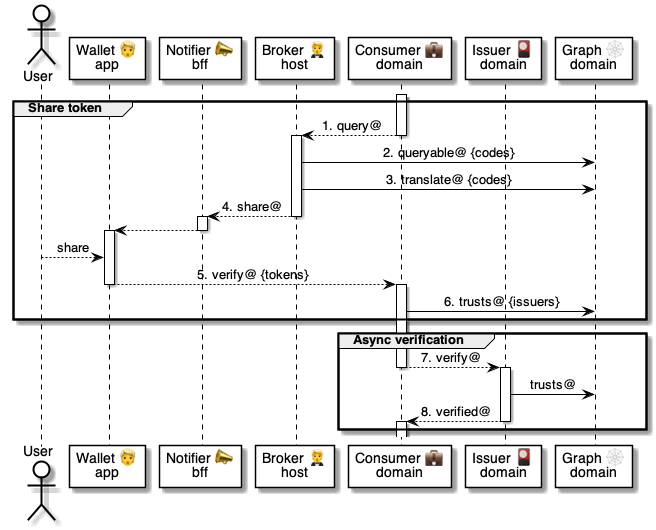
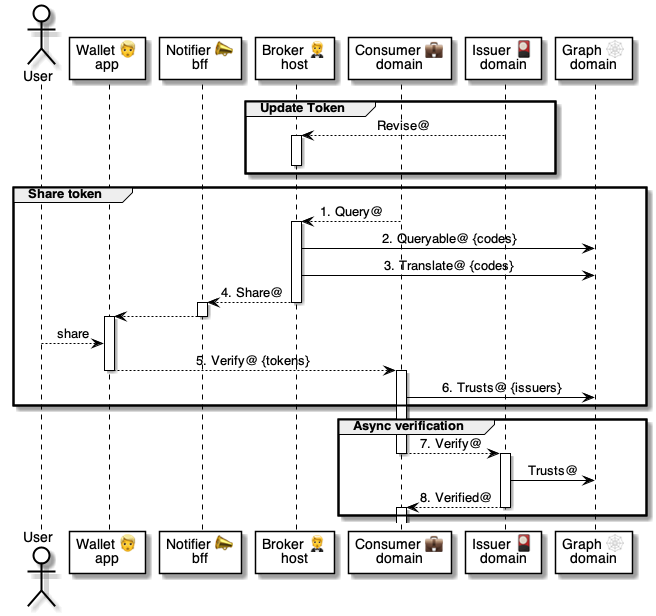
.

Changed region(s): [[0.0, 0.4226, 1.0, 0.9962], [0.0, 0.0, 1.0, 0.5434], [0.5793, 0.5132, 0.6098, 0.5434]]

diff --git a/4 ⚙ Solution/20 🧑🦰 UI/24 🗄 Vaults/02 🧩 Schema Code.md b/4 ⚙ Solution/20 🧑🦰 UI/24 🗄 Vaults/02 🧩 Schema Code.md
@@ -1,20 +1,68 @@
 🧩 Schema Codes FAQ
 ===
 
+1. **What is a Schema Code?**
 
-1. **How do domains validate the structure of messages?**
+    A [Schema Code 🧩](<02 🧩 Schema Code.md>) is a string 
+    * formatted as `{authority}/{code}[:{version}]`
+    * e.g., `nlweb.org/QR:1.0`
+    * that points to a public data schema
+    * describing the structure of a sharable dataset.
 
-    In NLWeb, information is shared based on [Schema Codes 🧩](<02 🧩 Schema Code.md>). 
+    ---
+    <br/>
+
+1. **What are examples for Schema Codes?**
+
+    | Schema Code | Purpose |
+    |-|-
+    | `unicode.any-igo.org/FLAG 🧩` | Flags for country [Prompts 🤔](<../23 💬 Chats/02 🤔 Prompt.md>).
+
+    ---
+    <br/>
+
+2. **What is contained in a Schema Code?**
+
+    The string of a [Schema Code 🧩](<02 🧩 Schema Code.md>) is composed of the following parts.
+
+    | Part | Type | Description
+    |-|-|-
+    | `domain` | string | The [domain 👥](<../../40 👥 Domains/44 📜 Manifests/00 👥 Domain.md>) that published the [Schema Code 🧩](<02 🧩 Schema Code.md>) in their [domain Manifest 📜](<../../40 👥 Domains/44 📜 Manifests/01 📜 Domain Manifest.md>).
+    | `code`    | string | A unique ID of the schema in the domain.
+    | `version` | string | The optional version of the schema:<br/> - when missing, consider version 1.0; <br/> 
     
-    * When a [Consumer 💼 domain](<../27 💼 Consumers/04 💼🎭 Consumer role.md>) needs information stored in a [Vault 🗄 domain](<03 🗄🎭 Vault role.md>), it states the [Schema Code 🧩](<02 🧩 Schema Code.md>) of the information in the form of `{domain}/{code}:{version}`;
+
+    - e.g., the code `nlweb.com/TOKEN:2.0` references version `2.0` of a schema called `TOKEN` that is defined in the [domain Manifest 📜](<../../40 👥 Domains/44 📜 Manifests/01 📜 Domain Manifest.md>) of the [Authority 🏛 domain](<../../40 👥 Domains/43 👍 Trusts/02 🏛🛠 Authority helper.md>) `nlweb.com`. 
+    
+    ---
+    <br/>
+
+2. **How do domains validate the structure of messages?**
+
+    In NLWeb, information is shared based on [Schema Codes 🧩](<02 🧩 Schema Code.md>).
+ 
+    
+    * When a [Consumer 💼 domain](<../27 💼 Consumers/04 💼🎭 Consumer role.md>) needs information stored in user's [Vault 🗄 domain](<03 🗄🎭 Vault role.md>), it states the [Schema Code 🧩](<02 🧩 Schema Code.md>) of the information;
+  
         - this allows the chat participants to know where to get the schema definition for the [Messages 📨](<../../40 👥 Domains/41 📨 Comms/01 📨 Domain Message.md>) 
+  
         - e.g., the code `nlweb.com/TOKEN:2.0` references version `2.0` of a schema called `TOKEN` that is defined in the [domain Manifest 📜](<../../40 👥 Domains/44 📜 Manifests/01 📜 Domain Manifest.md>) of the [Authority 🏛 domain](<../../40 👥 Domains/43 👍 Trusts/02 🏛🛠 Authority helper.md>) `nlweb.com`. 
     
-    * For resilience and performance, domains can query [Graph 🕸 domains](<../../40 👥 Domains/44 📜 Manifests/03 🕸🛠 Graph helper.md>) directly for a schema definition by passing a [Schema Code 🧩](<02 🧩 Schema Code.md>).
+    * For resilience and performance, domains query [Graph 🕸 domains](<../../40 👥 Domains/44 📜 Manifests/03 🕸🛠 Graph helper.md>) for a schema definition by passing the [Schema Code 🧩](<02 🧩 Schema Code.md>) to [👥🚀🕸 Schema @ Graph](<../../../6 🅰 APIs/45 🕸🅰 Graph/08 👥🚀🕸 Schema.md>).
+
+        ```yaml
+        # Sample request
+        Header: 
+            From: any-domain.com
+            To: any-graph.com
+            Subject: Schema@Graph
+        Body:
+            Code: nlweb.org/QR:1.0
+        ```
 
     ---
 
-2. **What does it mean when a YAML content starts with 🤝?**
+3. **What does it mean when a YAML content starts with 🤝?**
 
     When YAML starts with `🤝: {domain}/[{path}/]{code}[:{version}]`,
     * e.g., `🤝: nlweb.org/MANIFEST/CODE`
@@ -23,7 +71,7 @@
     
     ---
 
-3. **How do define a Schema in a Manifest?**
+4. **How do define a Schema in a Manifest?**
 
     The instructions on how to add a [Schema Code 🧩](<02 🧩 Schema Code.md>) to a [domain Manifest 📜](<../../40 👥 Domains/44 📜 Manifests/01 📜 Domain Manifest.md>) are themselves published as special [Schema Codes 🧩](<02 🧩 Schema Code.md>):
 
@@ -37,7 +85,7 @@
     ---
     <br/>
 
-4. **Are there any pre-defined Schema Codes?**
+5. **Are there any pre-defined Schema Codes?**
 
     Yes. 
     - The NLWeb protocol is supported by a set of [Schema Codes 🧩](<02 🧩 Schema Code.md>) defined in the `nlweb.org` [domain Manifest 📜](<../../40 👥 Domains/44 📜 Manifests/01 📜 Domain Manifest.md>). 
@@ -50,7 +98,7 @@
 
     ---
 
-5. **Is the NLWeb manifest a single point of failure?**
+6. **Is the NLWeb manifest a single point of failure?**
 
     No. 
     - Domains don't need `nlweb.org` to be online to access its [domain Manifest 📜](<../../40 👥 Domains/44 📜 Manifests/01 📜 Domain Manifest.md>) (nor the Manifest of any other domain, for that matter).

diff --git a/4 ⚙ Solution/20 🧑🦰 UI/22 🔆 Locators/01 🔆 Locator.md b/4 ⚙ Solution/20 🧑🦰 UI/22 🔆 Locators/01 🔆 Locator.md
@@ -5,14 +5,29 @@
 
     In NLWeb, non-humans (e.g., organizations, places, objects, animals) are represented by a [Locator 🔆](<01 🔆 Locator.md>). 
     * An NLWeb [Locator 🔆](<01 🔆 Locator.md>) is a string contained in a [QR code ✨](<03 🧑🦰✨ Wallet QR scan.md>), [NFC tag 🔆](<04 🧑🦰🔆 Wallet NFC tap.md>), [Web link 🌐](<02 🧑🦰🌐 Wallet URLs.md>), or [Chat 💬](<../23 💬 Chats/01 💬 Chat.md>) option.
-    * Example: `nlweb.org/QR,1,any-printer.com,7V8KD3G`
     * Users can [tap 🔆](<04 🧑🦰🔆 Wallet NFC tap.md>), [scan ✨](<03 🧑🦰✨ Wallet QR scan.md>), [select 💬](<../23 💬 Chats/01 💬 Chat.md>), or [click 🌐](<02 🧑🦰🌐 Wallet URLs.md>) Locators 🔆 to open a [Chat 💬](<../23 💬 Chats/01 💬 Chat.md>) with the [Locator's Host 🤗 domain](<../23 💬 Chats/04 🤗🎭 Host role.md>).
 
     ---
     <br/>
     
 
-2. **How can users interact with Locators?**
+3. **What data is contained in a Locator?**
+
+    A [Locator 🔆](<01 🔆 Locator.md>) is a string 
+    * formatted as `{schema code},{host domain},{resource}[,{parameters}]`
+    * e.g.: `nlweb.org/QR:1.2,any-printer.com,7V8KD3G`
+
+    |Part| Example | Purpose
+    |-|-|-
+    | [Schema Code 🧩](<../24 🗄 Vaults/02 🧩 Schema Code.md>) | `nlweb.org/QR:1.0` | To validate the schema with a [Graph 🕸 helper domain](<../../40 👥 Domains/44 📜 Manifests/03 🕸🛠 Graph helper.md>).
+    | [Host 🤗 domain](<../23 💬 Chats/04 🤗🎭 Host role.md>) | `any-host.com` | For the user's [Wallet 🧑🦰 app](<../01 🧑🦰 Wallets/01 🧑🦰 Wallet app.md>) to open a [Chat 💬](<../23 💬 Chats/01 💬 Chat.md>).
+    | Resource | `product-1234` | The resource key in the Host's domain |  `product-1234` |
+    | Parameters | `A=1,B=2` | any optional data fields.
+
+    ---
+    <br/>
+
+4. **How can users interact with Locators?**
 
     ![](<.📎 Assets/🔆 Locators.png>)
     
@@ -37,18 +52,6 @@
     <br/>
 
 
-3. **What data is contained in a Locator?**
-
-    A [Locator 🔆](<01 🔆 Locator.md>) contains.
-    |Part| Example | Purpose
-    |-|-|-
-    | [Schema Code 🧩](<../24 🗄 Vaults/02 🧩 Schema Code.md>) | `nlweb.org/QR:1.0` | To validate the schema with a [Graph 🕸 helper domain](<../../40 👥 Domains/44 📜 Manifests/03 🕸🛠 Graph helper.md>).
-    | [Host 🤗 domain](<../23 💬 Chats/04 🤗🎭 Host role.md>) | `any-host.com` | For the user's [Wallet 🧑🦰 app](<../01 🧑🦰 Wallets/01 🧑🦰 Wallet app.md>) to open a [Chat 💬](<../23 💬 Chats/01 💬 Chat.md>).
-    | Resource | `product-1234` | The resource key in the Host's domain |  `product-1234` |
-    | Parameters | `A=1,B=2` | any optional data fields.
-
-    ---
-    <br/>
 
 2. **Can Locators be forged?**
 

diff --git a/5 ⏩ Flows/04 💼⏩ Consumers/03 💼⏩🧑🦰 Query token.md b/5 ⏩ Flows/04 💼⏩ Consumers/03 💼⏩🧑🦰 Query token.md
@@ -9,11 +9,14 @@
 
 ![alt text](<.📎 Assets/⚙ Query Token.png>)
 
-1. [💼🐌🤵 Query @ Broker](<../../6 🅰 APIs/15 🤵🅰 Broker/60 🤵🅰 Share/61 💼🐌🤵 Query.md>)
-2. [👥🚀🕸 Queryable @ Graph](<../../6 🅰 APIs/45 🕸🅰 Graph/05 👥🚀🕸 Queryable.md>)
-3. [👥🚀🕸 Translate @ Graph](<../../6 🅰 APIs/45 🕸🅰 Graph/06 👥🚀🕸 Translate.md>)
-4. [🤵🐌📣 Share @ Notifier](<../../6 🅰 APIs/65 📣🅰 Notifier/02 📣💬🅰 Chats/22 🤵🐌📣 Share.md>)
-5. [🤵🐌💼 Verify @ Consumer](<../../6 🅰 APIs/30 💼🅰 Consumer/02 🧑🦰🐌💼 Verify.md>)
-6. [👥🚀🕸 Trusts @ Graph](<../../6 🅰 APIs/45 🕸🅰 Graph/03 👥🚀🕸 Trusts.md>)
-7. [💼🐌🎴 Verify @ Issuer](<../../6 🅰 APIs/55 🎴🅰 Issuer/02 💼🐌🎴 Verify.md>)
-8. [🎴🐌💼 Verified @ Consumer](<../../6 🅰 APIs/30 💼🅰 Consumer/03 🎴🐌💼 Verified.md>)
+|#| Step | Purpose
+|-|-|-
+|1| [💼🐌🤵 Query @ Broker](<../../6 🅰 APIs/15 🤵🅰 Broker/60 🤵🅰 Share/61 💼🐌🤵 Query.md>) | In a Chat, a consumer asks access to user data of one or mode Schema Codes.
+|2| [👥🚀🕸 Queryable @ Graph](<../../6 🅰 APIs/45 🕸🅰 Graph/05 👥🚀🕸 Queryable.md>) | The Broker matches possible user Vaults with the Schema Codes, and asks a Graph to filters out the ones without usable Trust paths.
+|3| [👥🚀🕸 Translate @ Graph](<../../6 🅰 APIs/45 🕸🅰 Graph/06 👥🚀🕸 Translate.md>) | The Broker asks a Graph to translate the Schema Codes to the Chat's language.
+|4| [🤵🐌📣 Share @ Notifier](<../../6 🅰 APIs/65 📣🅰 Notifier/02 📣💬🅰 Chats/22 🤵🐌📣 Share.md>) | The Broker sends the share request to the user via the Notifier domain, who then delivers it to the Wallet app.
+|5| [🤵🐌💼 Verify @ Consumer](<../../6 🅰 APIs/30 💼🅰 Consumer/02 🧑🦰🐌💼 Verify.md>)
+|6| [👥🚀🕸 Trusts @ Graph](<../../6 🅰 APIs/45 🕸🅰 Graph/03 👥🚀🕸 Trusts.md>)
+|7| [💼🐌🎴 Verify @ Issuer](<../../6 🅰 APIs/55 🎴🅰 Issuer/02 💼🐌🎴 Verify.md>)
+|8| [🎴🐌💼 Verified @ Consumer](<../../6 🅰 APIs/30 💼🅰 Consumer/03 🎴🐌💼 Verified.md>)
+|

diff --git a/4 ⚙ Solution/20 🧑🦰 UI/03 🤵 Brokers/03 🤵 Broker domain.md b/4 ⚙ Solution/20 🧑🦰 UI/03 🤵 Brokers/03 🤵 Broker domain.md
@@ -96,7 +96,7 @@
     |🔗 Binds| [🧑🦰🚀 Binds](<../../../6 🅰 APIs/15 🤵🅰 Broker/40 🤵🅰 Binds 🔗/41 🧑🦰🚀🤵 Binds.md>) | List the [Binds 🔗](<../../../4 ⚙ Solution/20 🧑🦰 UI/24 🗄 Vaults/01 🔗 Bind.md>) of a [Wallet 🧑🦰 app](<../../../4 ⚙ Solution/20 🧑🦰 UI/01 🧑🦰 Wallets/01 🧑🦰 Wallet app.md>)
     || [🗄🐌 Bindable](<../../../6 🅰 APIs/15 🤵🅰 Broker/40 🤵🅰 Binds 🔗/42 🗄🐌🤵 Bindable.md>) | Offers of bindable [Schema Codes 🧩](<../../../4 ⚙ Solution/20 🧑🦰 UI/24 🗄 Vaults/02 🧩 Schema Code.md>)
     | 🎴 Tokens | [🎴🐌 Offer](<../../../6 🅰 APIs/15 🤵🅰 Broker/50 🤵🅰 Tokens 🎫/51 🎴🐌🤵 Offer.md>) | An [Issuer 🎴 domain](<../../../4 ⚙ Solution/20 🧑🦰 UI/25 🎫 Tokens/02 🎴🎭 Issuer role.md>) issues a [Token 🎫](<../../../4 ⚙ Solution/20 🧑🦰 UI/25 🎫 Tokens/01 🎫 Token.md>)
-    || [🎴🐌🤵 Revoke](<../../../6 🅰 APIs/15 🤵🅰 Broker/50 🤵🅰 Tokens 🎫/52 🎴🐌🤵 Revoke.md>)
+    || [🎴🐌🤵 Revoke](<../../../6 🅰 APIs/15 🤵🅰 Broker/50 🤵🅰 Tokens 🎫/52 🎴🐌🤵 Revise.md>)
 
     || [🧑🦰🐌🤵 Accepted](<../../../6 🅰 APIs/15 🤵🅰 Broker/50 🤵🅰 Tokens 🎫/53 🧑🦰🐌🤵 Accepted.md>)
     || [🧑🦰🚀🤵 Tokens](<../../../6 🅰 APIs/15 🤵🅰 Broker/50 🤵🅰 Tokens 🎫/54 🧑🦰🚀🤵 Tokens.md>)

diff --git a/6 🅰 APIs/45 🕸🅰 Graph/03 👥🚀🕸 Trusts.md b/6 🅰 APIs/45 🕸🅰 Graph/03 👥🚀🕸 Trusts.md
@@ -1,4 +1,3 @@
-<!-- #TODO -->
 
 <!-- Docs: https://quip.com/hgz4A3clvOes#temp:C:bDA71b470c7a4c446e5b43adea7e -->
 <!-- Code: https://github.com/jorgemjfonseca/domain-trust-framework/blob/9a3c5abe16dda8cbacd2529bc859fd9d708f85d9/python/backbone/graph/GRAPH.py#L279 -->
@@ -7,9 +6,13 @@
 
 > Verifies if there’s a path of [Trust 👍](<../../4 ⚙ Solution/40 👥 Domains/43 👍 Trusts/01 👍 Domain Trust.md>) between two [domains 👥](<../../4 ⚙ Solution/40 👥 Domains/44 📜 Manifests/00 👥 Domain.md>) regarding a [Schema Code 🧩](<../../4 ⚙ Solution/20 🧑🦰 UI/24 🗄 Vaults/02 🧩 Schema Code.md>).
 
+
+> Used in [💼⏩🧑🦰 Query token](<../../5 ⏩ Flows/04 💼⏩ Consumers/03 💼⏩🧑🦰 Query token.md>)
+
 > Similar as [Trusted@Graph](<02 👥🚀🕸 Trusted.md>), but for verification by another [domain 👥](<../../4 ⚙ Solution/40 👥 Domains/44 📜 Manifests/00 👥 Domain.md>).
 
 > ⚠ This method doesn’t look at the header nor the signature of the request.
+
 
 <br/>
 

diff --git a/4 ⚙ Solution/40 👥 Domains/44 📜 Manifests/03 🕸🛠 Graph helper.md b/4 ⚙ Solution/40 👥 Domains/44 📜 Manifests/03 🕸🛠 Graph helper.md
@@ -98,3 +98,17 @@
 
     ---
     <br/>
+
+
+1. **What API methods are exposed by Graphs?**
+
+    |Method|Description
+    |-|-
+    |[👥🚀🕸 Trusted](<../../../6 🅰 APIs/45 🕸🅰 Graph/02 👥🚀🕸 Trusted.md>)
+    |[👥🚀🕸 Trusts](<../../../6 🅰 APIs/45 🕸🅰 Graph/03 👥🚀🕸 Trusts.md>)
+    |[👥🚀🕸 Identity](<../../../6 🅰 APIs/45 🕸🅰 Graph/04 👥🚀🕸 Identity.md>)
+    |[👥🚀🕸 Queryable](<../../../6 🅰 APIs/45 🕸🅰 Graph/05 👥🚀🕸 Queryable.md>)
+    |[👥🚀🕸 Translate](<../../../6 🅰 APIs/45 🕸🅰 Graph/06 👥🚀🕸 Translate.md>)
+    |[👥🚀🕸 Public Key](<../../../6 🅰 APIs/45 🕸🅰 Graph/07 👥🚀🕸 Public Key.md>)
+    |[👥🚀🕸 Schema](<../../../6 🅰 APIs/45 🕸🅰 Graph/08 👥🚀🕸 Schema.md>)
+    |[👥🚀🕸 Service](<../../../6 🅰 APIs/45 🕸🅰 Graph/09 👥🚀🕸 Service.md>)

diff --git a/6 🅰 APIs/15 🤵🅰 Broker/50 🤵🅰 Tokens 🎫/52 🎴🐌🤵 Revise.md b/6 🅰 APIs/15 🤵🅰 Broker/50 🤵🅰 Tokens 🎫/52 🎴🐌🤵 Revise.md
@@ -20,6 +20,10 @@ Header:
 Body:
     ChatID: <session-uuid>
     TokenID: <token-uuid>
+    Action: SUSPEND
+    Starting: 2025-10-10T13:45:00.000Z
+    Ending: 2025-12-31T00:00:00.000Z
+    Locator: <reference-uuid>
 ```
 
 |Object|Property|Type|Description
@@ -29,4 +33,8 @@ Body:
 | |`Subject`|string|`Revoke@Broker`
 |Body|`ChatID`|string|[Chat 💬](<../../../4 ⚙ Solution/20 🧑🦰 UI/23 💬 Chats/01 💬 Chat.md>) ID
 | |`TokenID`|string|[Token 🎫](<../../../4 ⚙ Solution/20 🧑🦰 UI/25 🎫 Tokens/01 🎫 Token.md>) ID
+| |`Action`| enum | `REVOKE` `SUSPEND` `ACTIVATE` `UPDATE`
+| |`Starting`| timestamp | Start date and time
+| |`Ending` | timestamp | Finish date and time (optional)
+| |`Locator`| string | Locator to allow the user to start a Chat with a host about it.
 |

diff --git a/6 🅰 APIs/45 🕸🅰 Graph/08 👥🚀🕸 Schema.md b/6 🅰 APIs/45 🕸🅰 Graph/08 👥🚀🕸 Schema.md
@@ -20,8 +20,7 @@ Header:
     Subject: Schema@Graph
 
 Body:
-    Code: iata.org/SSR/WCHR
-    Version: 2.1
+    Code: iata.org/SSR/WCHR:2.1
 ```
 
 |Object|Property|Type|Description
@@ -30,7 +29,6 @@ Body:
 |       | `To`      | string | [Graph 🕸 domain](<../../4 ⚙ Solution/40 👥 Domains/44 📜 Manifests/03 🕸🛠 Graph helper.md>) name
 |       | `Subject` | string | `Schema@Graph`
 | Body  | `Code`    | string | [Schema Code 🧩](<../../4 ⚙ Solution/20 🧑🦰 UI/24 🗄 Vaults/02 🧩 Schema Code.md>)
-|       | `Version` | string | Schema version, of the latest if empty.
 |
 
 

diff --git a/6 🅰 APIs/45 🕸🅰 Graph/02 👥🚀🕸 Trusted.md b/6 🅰 APIs/45 🕸🅰 Graph/02 👥🚀🕸 Trusted.md
@@ -1,4 +1,3 @@
-<!-- #TODO -->
 
 <!-- Docs: https://quip.com/hgz4A3clvOes#temp:C:bDA0807933d618043e6b1873dc74 -->
 <!-- Code: https://github.com/jorgemjfonseca/domain-trust-framework/blob/9a3c5abe16dda8cbacd2529bc859fd9d708f85d9/python/backbone/graph/GRAPH.py#L255 -->

diff --git a/6 🅰 APIs/15 🤵🅰 Broker/30 🤵🅰 Chats 💬/01 🧑🦰🐌🤵 Assess.md b/6 🅰 APIs/15 🤵🅰 Broker/30 🤵🅰 Chats 💬/01 🧑🦰🐌🤵 Assess.md
@@ -19,7 +19,7 @@ Header:
     To: any-broker.com
     Subject: Assess@Broker
 Body:
-    Locator: nlweb.org/QR,1,any-printer.com,7V8KD3G
+    Locator: nlweb.org/QR:1.0,any-printer.com,7V8KD3G
 ```
 
 |Object|Property|Type|Description

diff --git a/6 🅰 APIs/15 🤵🅰 Broker/30 🤵🅰 Chats 💬/06 👀🐌🤵 Promote.md b/6 🅰 APIs/15 🤵🅰 Broker/30 🤵🅰 Chats 💬/06 👀🐌🤵 Promote.md
@@ -21,7 +21,7 @@ Header:
     
 Body:
     ChatID: <chat-uuid>
-    Locator: nlweb.org/QR,1,any-domain.com,ANY-LOCATOR
+    Locator: nlweb.org/QR:1.0,any-domain.com,ANY-RESOURCE
 ```
 
 |Object|Property|Type|Description
